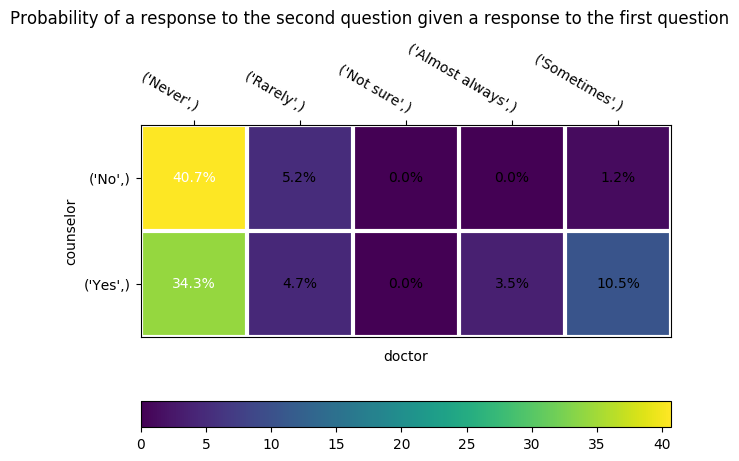
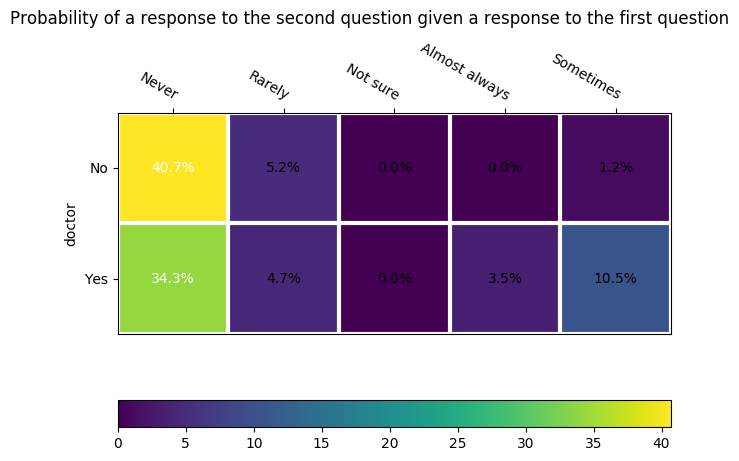
replaced usages of the word 'column' with the word 'question' when referring to column names in the sql database. changed get_answers to return a list of texts instead of a list of tuples containing a single text each

diff --git a/datasource.py b/datasource.py
@@ -37,68 +37,71 @@ class DataSource:
             exit()
         return connection
         
-    def get_data(self, column):
+    def get_data(self, question):
         '''
         Retrieves the number of times each response to a certain survey question is given.
         
         Parameters:
-            column - the column name from which these data are to be retrieved.
+            question - the question name from which these data are to be retrieved.
             
         Returns:
             A list of single-element tuples each containing the count for one answer.
         '''
-        answers = self.get_answers(column)
+        answers = self.get_answers(question)
         try:
             cursor = self.connection.cursor()
             query = ""
             for answer in answers:
                 if not len(query) == 0:
                     query += "\nUNION ALL\n"
-                query += "SELECT COUNT(" + column + ") FROM lonelinesssurveyshort WHERE " + column + "='" + answer[0] + "'"
+                query += "SELECT COUNT(" + question + ") FROM lonelinesssurveyshort WHERE " + question + "='" + answer + "'"
             query += ";"
-            cursor.execute(query, (column,))
+            cursor.execute(query, (question,))
             return cursor.fetchall()
         except Exception as e:
             print("Something went wrong when executing the data query: ", e)
             return None
     
-    def get_answers(self, column):
+    def get_answers(self, question):
         '''
         Retrieves every answer given to a question without duplicates. Does not include blank responses where the question was not asked.
         
         Parameters:
-            column - the column name from which the answers are to be retrieved
+            question - the question name from which the answers are to be retrieved
             
         Returns:
-            A list of single-element tuples each containing one of the answers given.
+            A list of the answers given
         '''
         try:
             cursor = self.connection.cursor()
-            query = "SELECT DISTINCT " + column + " FROM lonelinesssurveyshort WHERE NOT(" + column + "=' ') ;"
-            cursor.execute(query, (column,))
+            query = "SELECT DISTINCT " + question + " FROM lonelinesssurveyshort WHERE NOT(" + question + "=' ') ;"
+            cursor.execute(query, (question,))
             answers = cursor.fetchall()
-            return answers
+            new_answers = []
+            for answer in answers:
+                new_answers.append(answer[0])
+            return new_answers
         except Exception as e:
             print("Something went wrong when executing the answers query: ", e)
             return None
     
-    def get_probability_of_two_answers(self, first_column, first_answer, second_column, second_answer):
+    def get_probability_of_two_answers(self, first_question, first_answer, second_question, second_answer):
         '''
         Returns the probability of one answer to one question occuring and a second answer to a second question also occuring. Essentially, the probability of both answers occuring.
         
         Parameters:
-            first_column and second_column - the two columns/questions to be queried. There's no meaningful difference between the two.
-            first_answer and second_answer - the two answers to their respective questions. Again, no meaningful difference except that they are specific to their corresponding column
+            first_question and second_question - the two questions/questions to be queried. There's no meaningful difference between the two.
+            first_answer and second_answer - the two answers to their respective questions. Again, no meaningful difference except that they are specific to their corresponding     question
         
         Returns:
             A float containing the probability of both answers occuring together
         '''
         try:
             cursor = self.connection.cursor()
-            query = "SELECT COUNT(*) FROM lonelinesssurveyshort WHERE " + first_column + "='" + first_answer + "' AND " + second_column + "='" + second_answer + "'"
+            query = "SELECT COUNT(*) FROM lonelinesssurveyshort WHERE " + first_question + "='" + first_answer + "' AND " + second_question + "='" + second_answer + "'"
             query += "\nUNION ALL\n"
-            query += "SELECT COUNT(*) FROM lonelinesssurveyshort WHERE NOT(" + first_column + "=' ') AND NOT(" + second_column + "=' ');"
-            cursor.execute(query, (first_column, second_column))
+            query += "SELECT COUNT(*) FROM lonelinesssurveyshort WHERE NOT(" + first_question + "=' ') AND NOT(" + second_question + "=' ');"
+            cursor.execute(query, (first_question, second_question))
             output = cursor.fetchall()
             # division and breaking the query results out of their list and their single-element tuples
             return (output[0][0]/float(output[1][0]))
@@ -125,49 +128,48 @@ class DataSource:
             return None
     
 
-    def plot_data(self, first_column, second_column="NONE"):
+    def plot_data(self, first_question, second_question="NONE"):
         '''
-        Plots the given column or columns in a bar chart if only one is provided or a heatmap if two columns are provided. Saves the resulting plot as plot.png
+        Plots the given question or questions in a bar chart if only one is provided or a heatmap if two questions are provided. Saves the resulting plot as plot.png
         
         Parameters:
-            first_column: the first column to plot. The only one used if only one argument is given.
-            second_column: the second column, defaults to "NONE" in which case only first_column will be used.
+            first_question: the first question to plot. The only one used if only one argument is given.
+            second_question: the second question, defaults to "NONE" in which case only first_question will be used.
         '''
         self.fig = plt.figure()
         self.fig, self.ax = plt.subplots()
         
-        if second_column == "NONE":
-            self.__plot_bar(first_column)
+        if second_question == "NONE":
+            self.__plot_bar(first_question)
         else:
-            self.__plot_heatmap(first_column, second_column)
+            self.__plot_heatmap(first_question, second_question)
             
         
         self.fig.savefig("plot.png", bbox_inches="tight")
         
 
-    def __plot_bar(self, column):
+    def __plot_bar(self, question):
         '''
         Creates a bar chart of how often each answer to the provided question is given
             
         Parameters:
-            column - The question whose answers are to be graphed.
+            question - The question whose answers are to be graphed.
         '''
-        answers = get_answers(column)
         self.ax = self.fig.add_axes([0,0,1,1])
-        self.ax.bar(get_answers(column), get_data(column))
-        self.fig.suptitle(get_name(first_column))
+        self.ax.bar(get_answers(question), get_data(question))
+        self.fig.suptitle(get_name(first_question))
         
-    def __plot_heatmap(self, first_column, second_column):
+    def __plot_heatmap(self, first_question, second_question):
         '''
         Creates a heatmap indicating the probability of each combination of responses. Does not account for situations where either question was not responded to.
         
         Parameters:
-            first_column - the first question, which serves as the y-axis of the chart
-            second_column - the second question, which serves as the x-axis of the chart
+            first_question - the first question, which serves as the y-axis of the chart
+            second_question - the second question, which serves as the x-axis of the chart
         '''
         
-        first_answers = self.get_answers(first_column)
-        second_answers = self.get_answers(second_column)
+        first_answers = self.get_answers(first_question)
+        second_answers = self.get_answers(second_question)
         
         probabilities = []
         i = -1
@@ -175,20 +177,15 @@ class DataSource:
             i += 1
             probabilities.append([])
             for second_answer in second_answers:
-                probabilities[i].append(
-                                        round(
-                                              self.get_probability_of_two_answers(
-                                                                                  first_column, first_answer[0], second_column, second_answer[0]) * 100
-                                              ,1)
-                                        )
+                probabilities[i].append(round(self.get_probability_of_two_answers(first_question, first_answer, second_question, second_answer) * 100,1))
                 
         # probabilities must be converted to a numpy array to work with the heatmap function borrowed from the matplotlib documentation
         probabilities_array = np.array(probabilities)
         
         im, cbar = heatmap(probabilities_array, first_answers, second_answers, ax = self.ax, cbar_kw=dict(orientation='horizontal', cmap="bwr"), cbarlabel="Probability")
         texts = annotate_heatmap(im, valfmt="{x:.1f}%")
-        self.ax.set_ylabel(first_column)
-        self.ax.set_label(second_column)
+        self.ax.set_ylabel(first_question)
+        self.ax.set_label(second_question)
         self.fig.tight_layout()
         plt.show()
         self.fig.suptitle("Probability of a response to the second question given a response to the first question")
